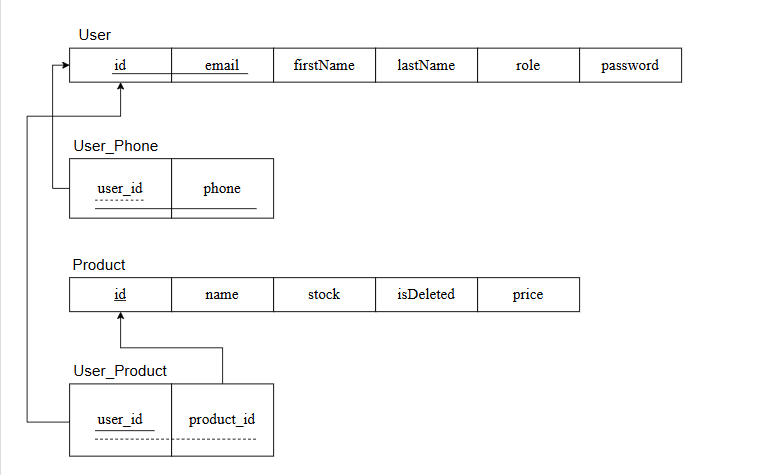
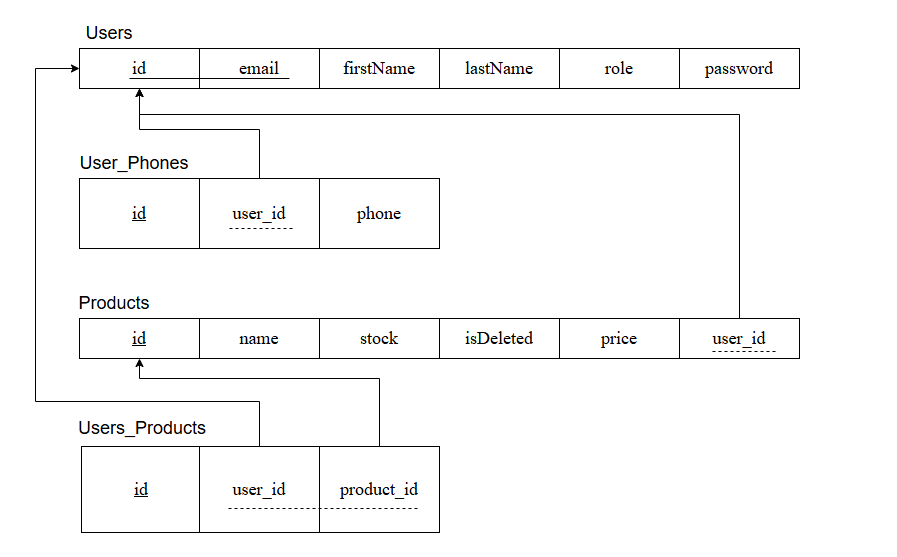
edit in db creartion, user apis, start product apis

diff --git a/Assignment-7/src/modules/products/product.service.js b/Assignment-7/src/modules/products/product.service.js
@@ -1,6 +1,102 @@
-export const getProducts = async (req, res, next) => {
-    try {
-    } catch (error) {
+import connection from "../../DB/connectionDB.js";
 
+
+export const addProduct = (req, res) => {
+    const { name, stock, isDeleted, price, userId } = req.body;
+    connection.execute(`select * from products where name = '${name}'`, (err, result) => {
+        if (err) {
+            return res.status(500).json({ message: 'Error on select query', error: err.message });
+        }
+        if (result.length > 0) {
+            return res.status(409).json({ message: 'Product already exists.' });
+        }
+
+        connection.execute(`insert INTO products (name , stock , isDeleted , price, userId)
+                            VALUES ('${name}', '${stock}', '${isDeleted}', '${price}', '${userId}')`,
+            (err, result) => {
+                if (err) {
+                    return res.status(500).json({ message: 'Error on insert query', error: err.message });
+                }
+                // console.log(result);
+                if (result.affectedRows > 0) {
+                    res.status(201).json({ message: 'Product added successfully.', productId: result.insertId });
+                } else {
+                    res.status(400).json({ message: 'Failed to add the product' });
+                }
+            });
+    });
+};
+
+export const softDelete = (req, res) => {
+    const { id } = req.params;
+    connection.execute(`UPDATE products SET isDeleted = true WHERE id = '${id}'`, (err, result) => {
+        if (err) {
+            return res.status(500).json({ message: 'Error on update query', error: err.message });
+        }
+        if (result.affectedRows == 0) {
+            return res.status(404).json({ message: 'No Product found.' });
+        }
+        res.status(200).json({ message: 'Product soft-deleted successfully.' });
     }
-}
+    );
+};
+
+export const deleteProduct = (req, res) => {
+    const { id } = req.params;
+    connection.execute(`DELETE FROM products WHERE id = '${id}'`, (err, result) => {
+        if (err) {
+            return res.status(500).json({ message: 'Error on delete query', error: err.message });
+        }
+        if (result.affectedRows == 0) {
+            return res.status(404).json({ message: 'No Product found.' });
+        }
+        res.status(200).json({ message: 'Product deleted successfully.' });
+    }
+    );
+};
+
+export const searchProducts = (req, res) => {
+    const { name } = req.query;
+    if (!name) {
+        return res.status(400).json({ message: 'Product name query is required' });
+    }
+    connection.execute(`SELECT * FROM products WHERE name LIKE '%${name}%'`, (err, result) => {
+        if (err) {
+            return res.status(500).json({ message: 'Error on SELECT query', error: err.message });
+        }
+        if (result.length == 0) {
+            return res.status(404).json({ message: 'No Product found.' });
+        }
+        res.status(200).json({ products: result });
+    }
+    );
+};
+
+export const getProductsByIds = (req, res) => {
+    const { ids } = req.query;
+
+    if (!ids) {
+        return res.status(400).json({ message: 'IDs query parameter is required' });
+    }
+    connection.execute(`SELECT id, name, price FROM products WHERE id in (${ids})`, (err, result) => {
+        if (err) {
+            return res.status(500).json({ message: 'Error on SELECT query', error: err.message });
+        }
+        if (result.length == 0) {
+            return res.status(404).json({ message: 'No products found for the given IDs' });
+        }
+        res.status(200).json({ products: result });
+    });
+};
+
+export const getAllNotSoftDeleted = (req, res) => {
+    connection.execute(`SELECT name AS productName, price AS cost FROM products WHERE isDeleted = 'false'`, (err, result) => {
+        if (err) {
+            return res.status(500).json({ message: 'Error on SELECT query', error: err.message });
+        }
+        if (result.length == 0) {
+            return res.status(404).json({ message: 'No products found.' });
+        }
+        res.status(200).json({ products: result });
+    });
+};

diff --git a/Assignment-7/src/DB/db.service.js b/Assignment-7/src/DB/db.service.js
@@ -1,5 +1,86 @@
-export const createDatabaseTables = (req, res) => {
-    return res.status(200).json({ message: 'Tables created successfully.' });
+import connection from './connectionDB.js';
+
+
+export const createUsersTable = (req, res) => {
+    connection.execute(
+        `
+        CREATE TABLE IF NOT EXISTS users (
+        id INT(11) AUTO_INCREMENT PRIMARY KEY,
+        email VARCHAR(255) NOT NULL UNIQUE,
+        firstName VARCHAR(100),
+        lastName VARCHAR(100),
+        role VARCHAR(50),
+        password VARCHAR(255) NOT NULL
+        );`,
+        (err, results) => {
+            if (err) {
+                res.status(500).send('Error creating users table');
+            } else {
+                res.status(200).send('Users table created or already exists');
+            }
+        });
+};
+
+export const createUserPhones = (req, res) => {
+    connection.execute(
+        `
+        CREATE TABLE IF NOT EXISTS user_phones (
+        id INT(11) AUTO_INCREMENT PRIMARY KEY,
+        user_id INT(11),
+        phone VARCHAR(15),
+        FOREIGN KEY (user_id) REFERENCES users(id) ON DELETE CASCADE
+        );`,
+        (err, results) => {
+            if (err) {
+                res.status(500).send('Error creating user_phones table');
+            } else {
+                res.status(200).send('User_phones table created or already exists');
+            }
+        });
+};
+
+export const createProductsTable = (req, res) => {
+    connection.execute(
+        `
+        CREATE TABLE IF NOT EXISTS products (
+        id INT(11) AUTO_INCREMENT PRIMARY KEY,
+        name VARCHAR(255) NOT NULL,
+        stock INT DEFAULT 0,
+        isDeleted BOOLEAN DEFAULT false,
+        price DECIMAL(10,2) NOT NULL,
+        userId INT(11),
+        FOREIGN KEY (user_id) REFERENCES users(id) ON DELETE CASCADE
+        );`,
+        (err, results) => {
+            if (err) {
+                res.status(500).send('Error creating products table');
+            } else {
+                res.status(200).send('Products table created or already exists');
+            }
+        });
+};
+
+export const createUsersProducts = (req, res) => {
+
+    connection.execute(
+        `
+        CREATE TABLE IF NOT EXISTS users_products (
+        id INT(11) AUTO_INCREMENT PRIMARY KEY,
+        user_id INT(11),
+        product_id INT(11),
+        FOREIGN KEY (user_id) REFERENCES users(id) ON DELETE CASCADE,
+        FOREIGN KEY (product_id) REFERENCES products(id) ON DELETE CASCADE
+    );`,
+        (err, results) => {
+            if (err) {
+                res.status(500).send('Error creating users_products table');
+            } else {
+                res.status(200).send('Users_products table created or already exists');
+            }
+        });
 };
 
 
+export const createTables = (req, res) => {
+    return res.status(200).json({ message: 'Tables created successfully.' });
+};

diff --git a/Assignment-7/src/modules/products/product.controller.js b/Assignment-7/src/modules/products/product.controller.js
@@ -1,10 +1,14 @@
 import { Router } from "express";
-import { getProducts } from "./product.service.js";
+import { addProduct, deleteProduct, getAllNotSoftDeleted, getProductsByIds, searchProducts, softDelete } from "./product.service.js";
 const productRouter = Router();
 
 
-productRouter.get("/", getProducts)
-
+productRouter.post("/add-product", addProduct);
+productRouter.patch("/soft-delete/:id", softDelete);
+productRouter.delete("/delete-product/:id", deleteProduct);
+productRouter.get("/search", searchProducts);
+productRouter.get("/in", getProductsByIds);
+productRouter.get("/all-not-soft-deleted", getAllNotSoftDeleted);
 
 
 export default productRouter;

diff --git a/Assignment-7/src/DB/db.controller.js b/Assignment-7/src/DB/db.controller.js
@@ -1,8 +1,12 @@
 import { Router } from "express";
-import { createDatabaseTables } from './db.service.js';
+import { createProductsTable, createTables, createUserPhones, createUsersProducts, createUsersTable } from './db.service.js';
 
 const dbRouter = Router();
 
-dbRouter.post('/create-tables', createDatabaseTables);
+dbRouter.post('/create-users-table', createUsersTable);
+dbRouter.post('/create-products-table', createProductsTable);
+dbRouter.post('/create-user-phones', createUserPhones);
+dbRouter.post('/create-users-products', createUsersProducts);
+dbRouter.post('/create-tables', createTables);
 
 export default dbRouter;

diff --git a/Assignment-7/src/modules/users/user.service.js b/Assignment-7/src/modules/users/user.service.js
@@ -88,7 +88,7 @@ export const truncateTable = (req, res) => {
             if (err) {
                 return res.status(500).json({ message: 'Error on set query', error: err.message });
             }
-            connection.execute(`DELETE FROM user_products`, (err) => {
+            connection.execute(`DELETE FROM users_products`, (err) => {
                 if (err) {
                     return res.status(500).json({ message: 'Error on delete query', error: err.message });
                 }
